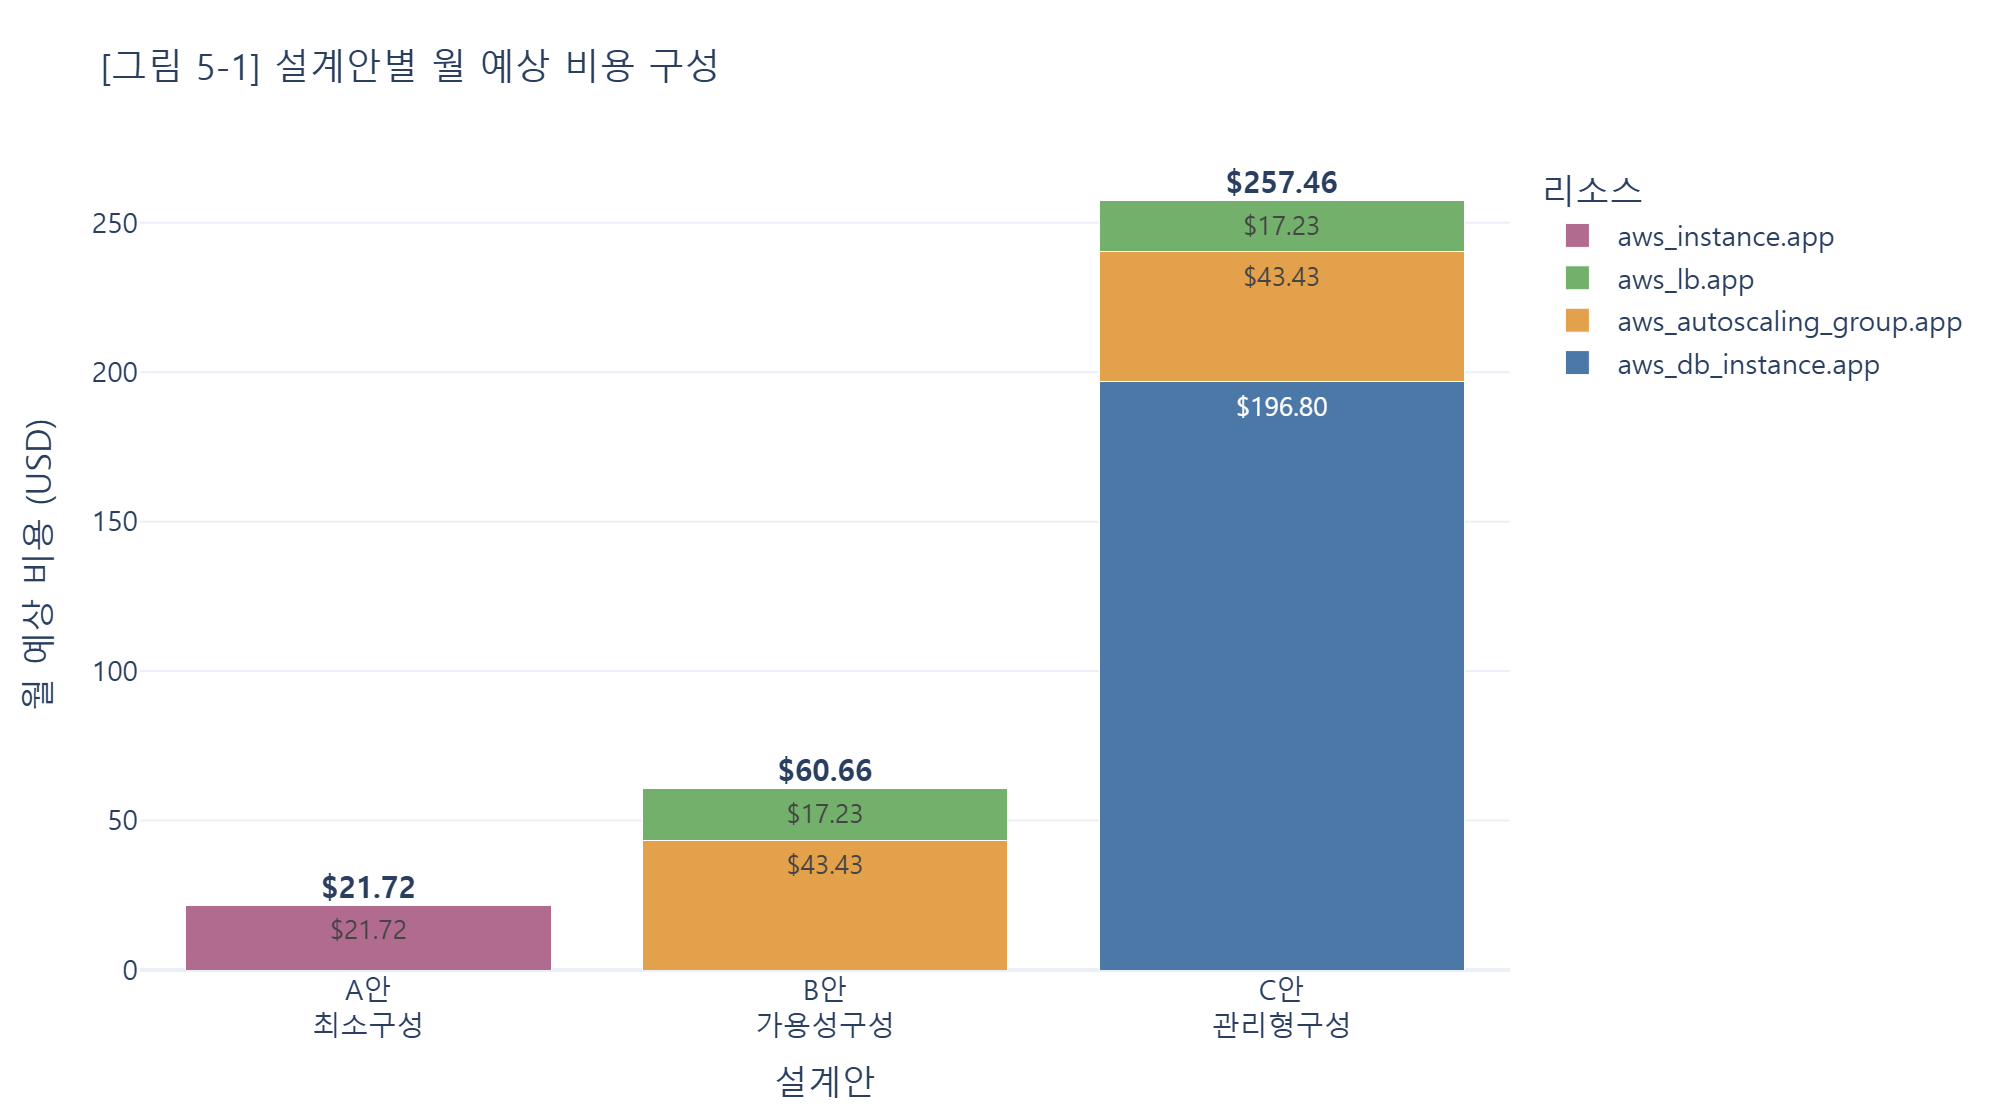
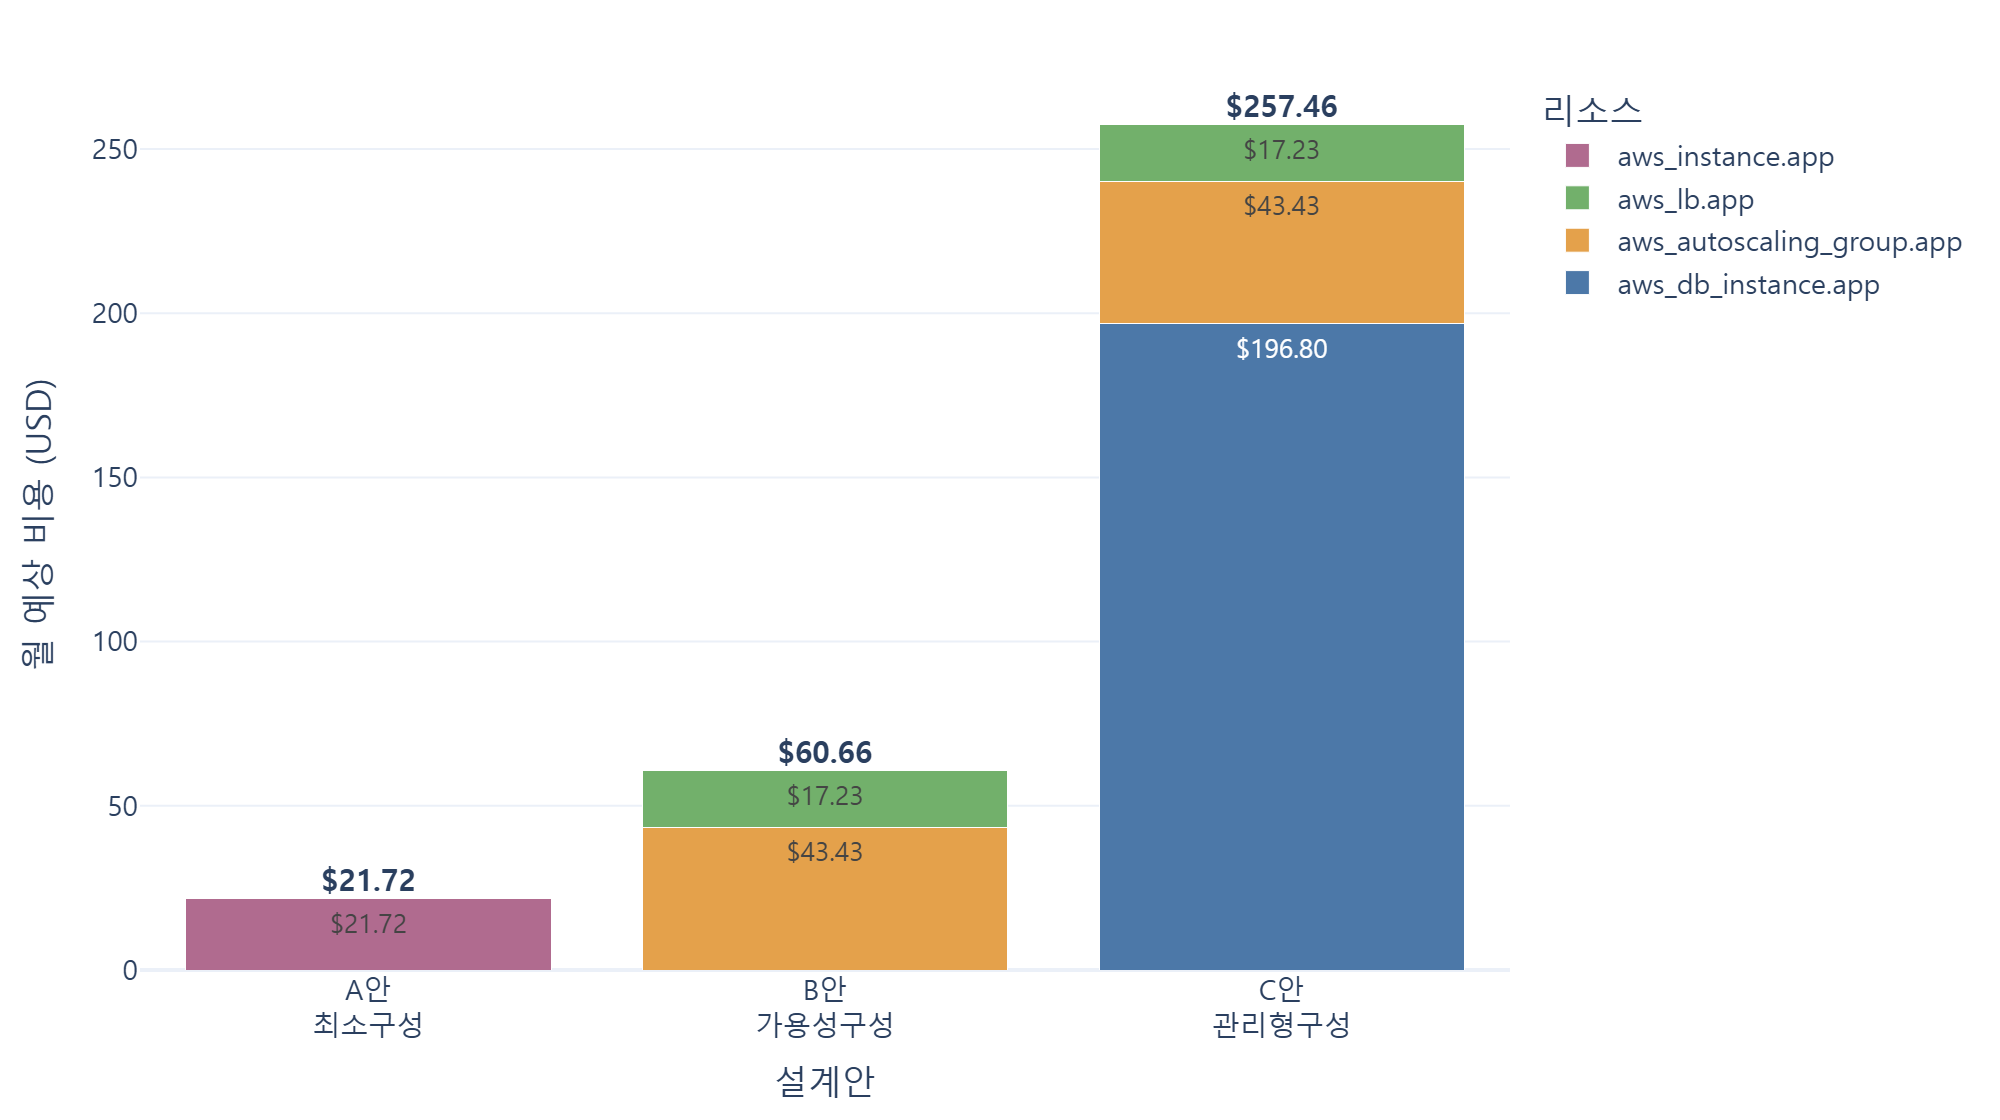
차트 이미지 안의 제목 제거 (캡션과 중복)
최종 PDF 점검에서 그림 5-1, 5-2, 5-3 의 제목이 두 번 보이는 것을
확인했다. 차트를 만들 때 plotly 제목으로 "[그림 5-2] ..." 를 넣었는데,
보고서에서 LaTeX 캡션이 같은 번호와 제목을 다시 붙였기 때문이다.

번호와 제목은 캡션이 맡도록 하고 이미지 안의 제목은 비웠다.
상단 여백을 80 -> 40 으로 줄였고, 막대 위 총액 라벨이 잘리지 않는 것을
세 그림 모두 확인했다.

최종 PDF 점검 결과 (슬라이드 20 체크리스트)
- 표지 과목명·학번·이름, 목차, 쪽 번호 확인
- 표 24개, 그림 6개, 번호 빠짐 없음
- 미해결 참조(??, [?]) 0건, 자리표시자·작업 메모 0건
- 오른쪽 여백을 넘는 표 0건, 한글 폰트 전부 임베딩
- 참고문헌 10건, 오픈소스 저장소 5개와 본 저장소 포함

diff --git a/make_figures.py b/make_figures.py
@@ -46,15 +46,17 @@ FIGDIR.mkdir(exist_ok=True)
 
 
 def _layout(fig, title, xaxis, yaxis, height=520):
+    # 그림 번호와 제목은 보고서의 LaTeX 캡션이 붙인다.
+    # 이미지 안에도 제목을 넣으면 같은 제목이 두 번 보이므로 비워 둔다.
+    # (title 인자는 HTML 파일 이름표 용도로만 남김)
     fig.update_layout(
-        title=title,
+        title=None,
         xaxis_title=xaxis,
         yaxis_title=yaxis,
         template="plotly_white",
         font=dict(family=FONT, size=14),
-        title_font=dict(family=FONT, size=18),
         height=height,
-        margin=dict(t=80, b=60, l=70, r=40),
+        margin=dict(t=40, b=60, l=70, r=40),
     )
     return fig
 
